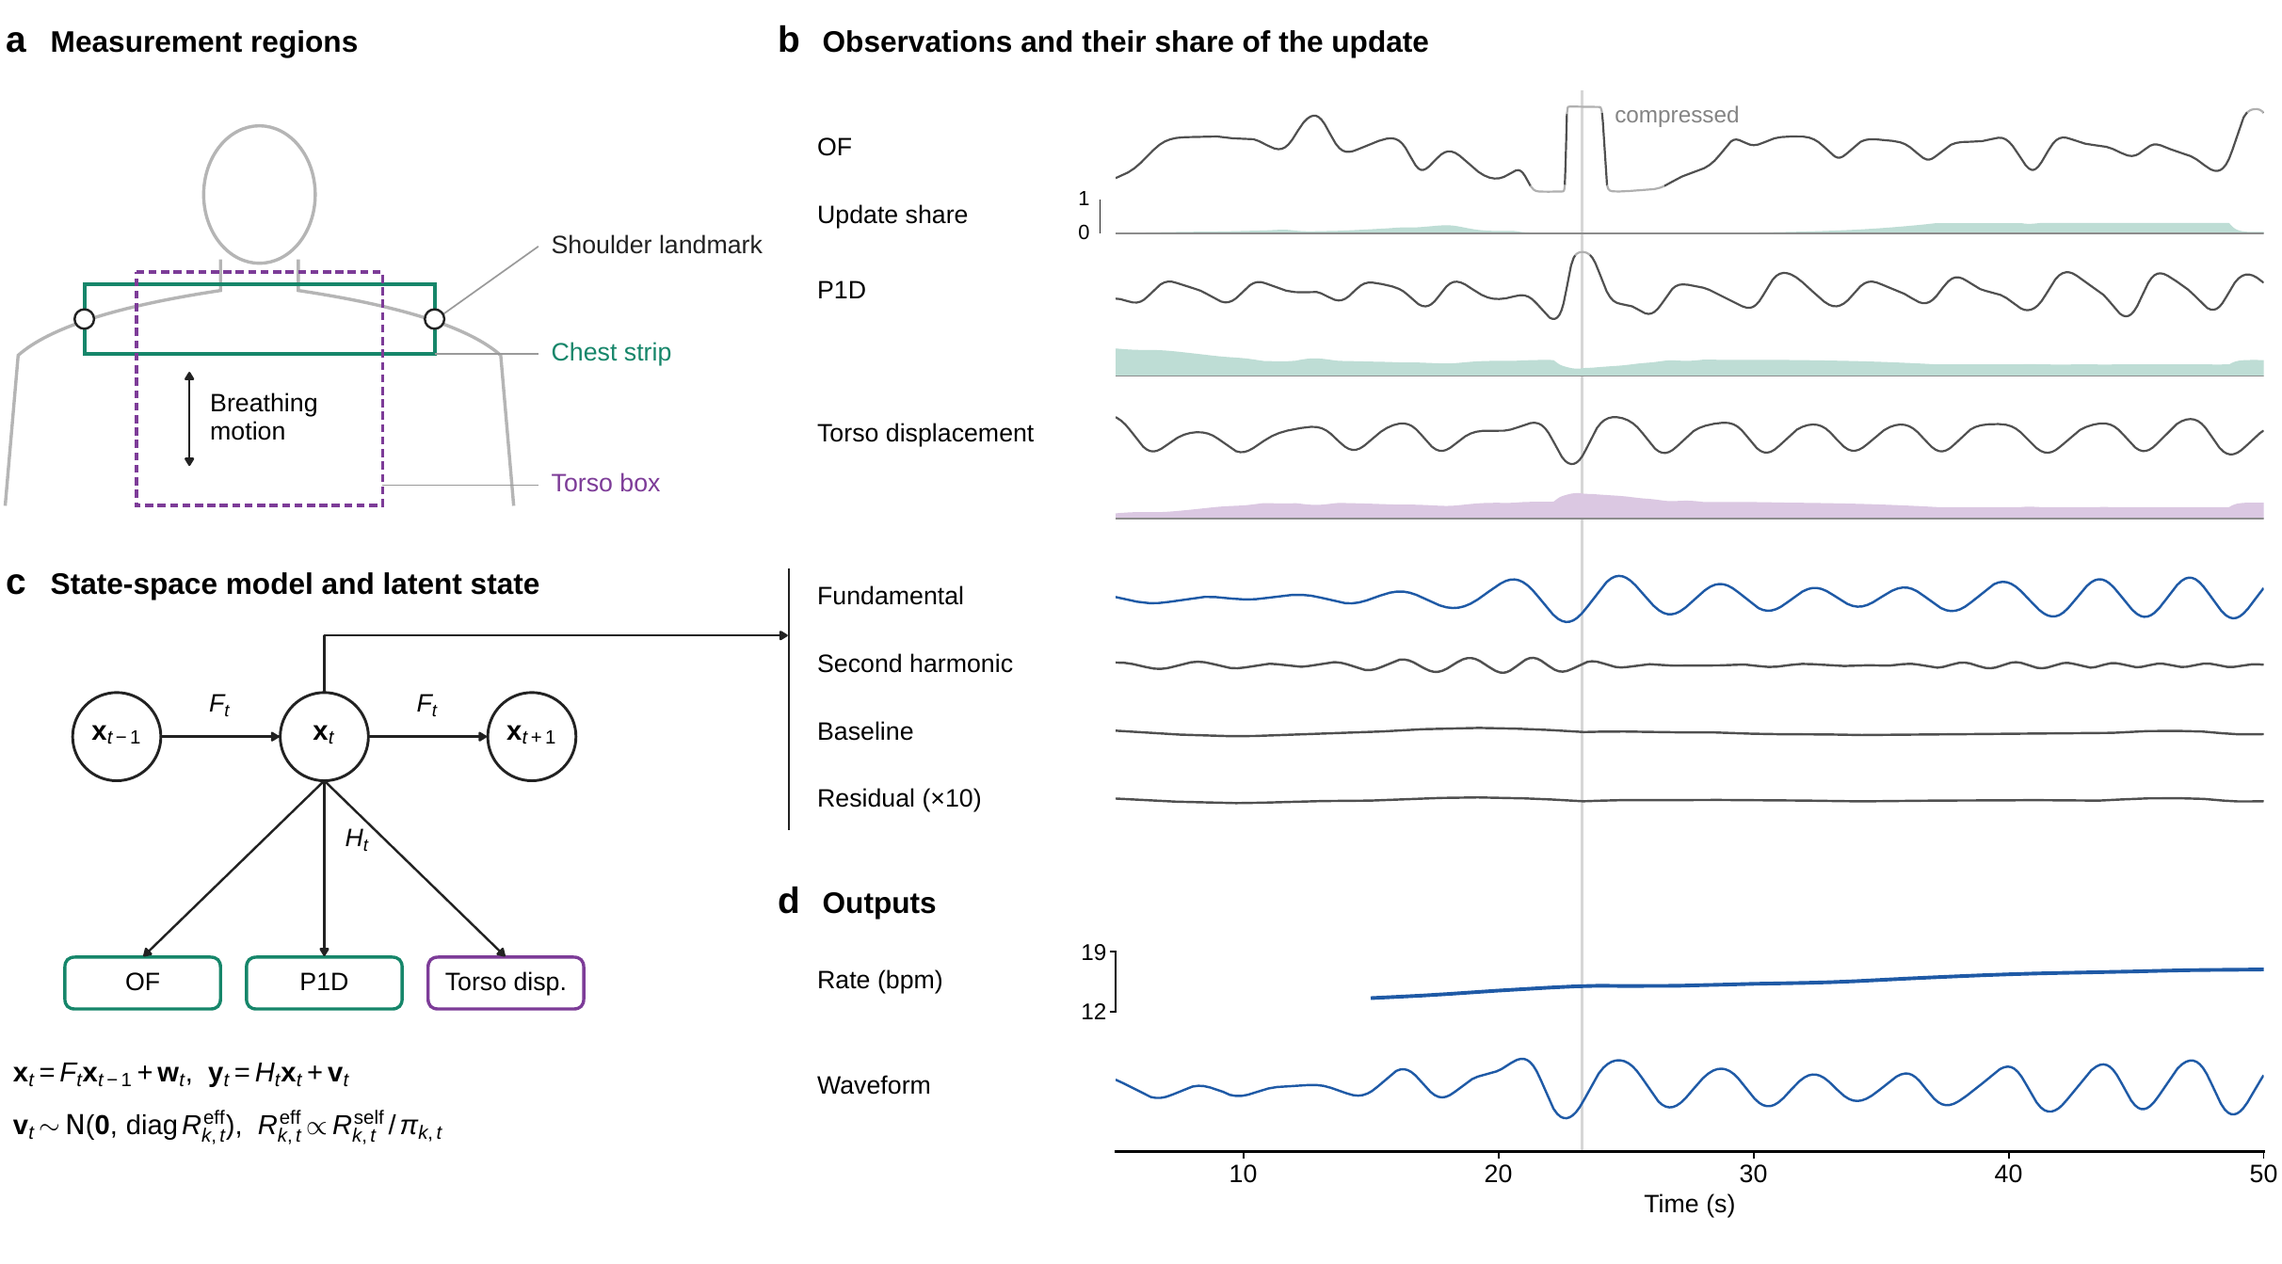
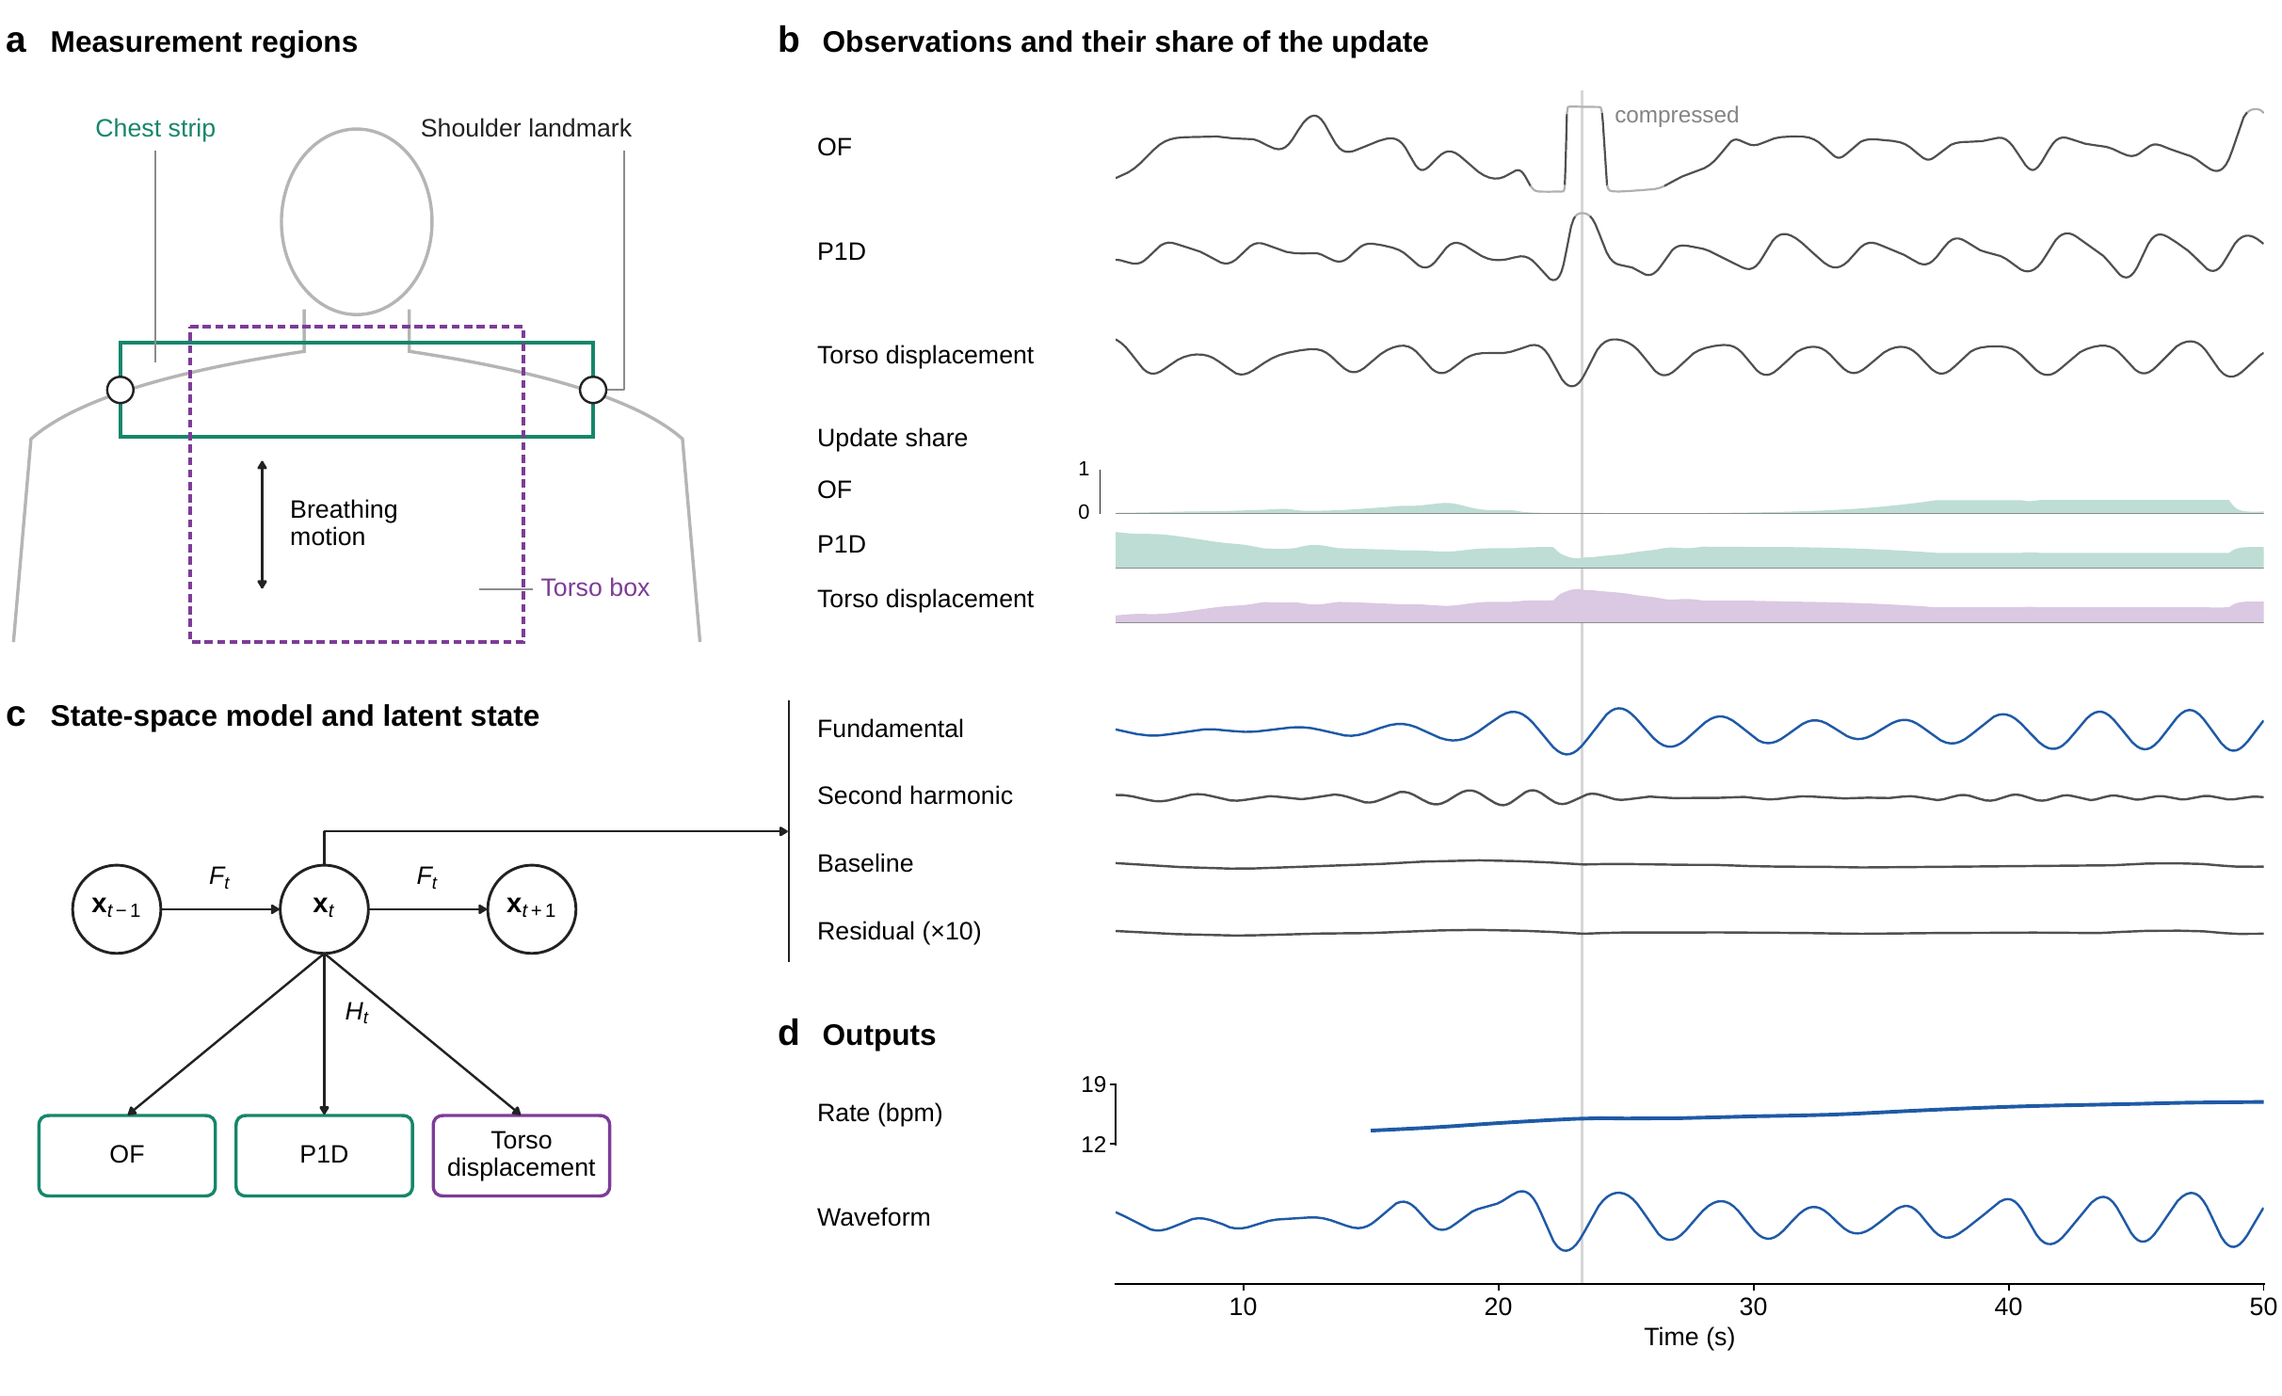
Mirror the final figure scripts and the Figure 1 caption

diff --git a/figures/architecture_figure.py b/figures/architecture_figure.py
@@ -31,7 +31,7 @@ from scipy.signal import butter, sosfiltfilt
 
 matplotlib.use("pdf")
 sys.path.insert(0, os.path.dirname(os.path.abspath(__file__)))
-from figure_style import (CHEST, GUIDE, INK, MM, OBS, PARH, TORSO, draw_share, draw_trace, lighter,  # noqa: E402
+from figure_style import (CHEST, INK, MM, NEUTRAL, OBS, PARH, TORSO, draw_share, draw_trace, lighter,  # noqa: E402
                           median_z)
 
 plt.rcParams.update({"mathtext.fontset": "custom", "mathtext.rm": "Liberation Sans",
@@ -81,9 +81,12 @@ TRANSIENT_S = float(common_time[np.argmax(np.where(in_span, median_abs, -1))])
 # vertical layout of the right column, in mm
 LEFT_X, LABEL_X, PLOT_X0, PLOT_X1 = 60.0, 63.0, 86.0, 174.5
 TEXT_LINE = 3.8
-B_TOP, LANE, TRACE_H, SHARE_H = 8.0, 11.0, 7.0, 2.6
-B_END = B_TOP + len(families) * LANE - (LANE - TRACE_H - 0.4 - SHARE_H)
-C_TOP, C_LANE = B_END + TEXT_LINE, 5.2
+B_TOP, TRACE_LANE, TRACE_H = 8.0, 8.0, 7.0
+SHARE_TITLE_Y = B_TOP + len(families) * TRACE_LANE + 0.4
+SHARE_Y, SHARE_H, SHARE_GAP = SHARE_TITLE_Y + TEXT_LINE, 3.4, 0.8
+B_END = SHARE_Y + len(families) * SHARE_H + (len(families) - 1) * SHARE_GAP
+C_LANE = 5.2
+C_TOP = B_END + 6.0  # the state block starts anew, beside its heading
 C_END = C_TOP + len(COMPONENTS) * C_LANE - 0.6
 D_HEAD = C_END + TEXT_LINE + 2.6
 RATE_Y0, WAVE_Y0, WAVE_Y1 = D_HEAD + 3.0, D_HEAD + 8.4, D_HEAD + 18.4
@@ -126,66 +129,90 @@ def time_to_mm(t):
 # the guide at the transient runs behind every row of the right column
 canvas.plot([time_to_mm(TRANSIENT_S)] * 2, [B_TOP - 1.0, WAVE_Y1], color="#d6d6d6", lw=0.6, zorder=0)
 
-# a: where the observations are measured
+# a: where the observations are measured. The drawing is scaled by SCALE_A from its unit design (line weights and
+# type size unchanged) so that it fills the left column from the heading down to one text line above heading c.
 heading(0.5, 4.0, "a", "Measurement regions")
-cx, top = 20.0, 9.0
-canvas.add_patch(Ellipse((cx, top + 6.0), 8.6, 10.6, fc="none", ec=OUTLINE, lw=0.7))
-body = Path([(cx - 3.0, top + 11.0), (cx - 3.0, top + 13.4), (cx - 15.0, top + 15.2), (cx - 18.6, top + 18.4),
-             (cx - 19.6, top + 30.0), (cx + 19.6, top + 30.0), (cx + 18.6, top + 18.4), (cx + 15.0, top + 15.2),
-             (cx + 3.0, top + 13.4), (cx + 3.0, top + 11.0)],
+SCALE_A = 1.35
+cx, top = 27.5, 9.0
+
+
+def at(dx, dy):
+    """A point of the unit design (mm from the body's centre line and from its top), scaled."""
+    return cx + dx * SCALE_A, top + dy * SCALE_A
+
+
+canvas.add_patch(Ellipse(at(0, 6.0), 8.6 * SCALE_A, 10.6 * SCALE_A, fc="none", ec=OUTLINE, lw=0.7))
+body = Path([at(-3.0, 11.0), at(-3.0, 13.4), at(-15.0, 15.2), at(-18.6, 18.4), at(-19.6, 30.0), at(19.6, 30.0),
+             at(18.6, 18.4), at(15.0, 15.2), at(3.0, 13.4), at(3.0, 11.0)],
             [Path.MOVETO, Path.LINETO, Path.CURVE3, Path.CURVE3, Path.LINETO, Path.MOVETO, Path.LINETO,
              Path.CURVE3, Path.CURVE3, Path.LINETO])
 canvas.add_patch(PathPatch(body, fc="none", ec=OUTLINE, lw=0.7))
-shoulder_y, span = top + 15.6, 27.0
-strip_height = 0.2 * span
-canvas.add_patch(Rectangle((cx - span / 2, shoulder_y - strip_height / 2), span, strip_height, fc="none", ec=CHEST,
-                           lw=0.8))
-canvas.add_patch(Rectangle((cx - 9.5, top + 12.0), 19.0, 18.0, fc="none", ec=TORSO, lw=0.8, ls=(0, (2.2, 1.2))))
-for x in (cx - span / 2, cx + span / 2):
-    canvas.add_patch(Circle((x, shoulder_y), 0.75, fc="white", ec=INK, lw=0.5, zorder=3))
+SPAN_A = 27.0
+strip_x0, strip_y0 = at(-SPAN_A / 2, 15.6 - 0.1 * SPAN_A)
+canvas.add_patch(Rectangle((strip_x0, strip_y0), SPAN_A * SCALE_A, 0.2 * SPAN_A * SCALE_A, fc="none", ec=CHEST, lw=0.8))
+box_x0, box_y0 = at(-9.5, 12.0)
+canvas.add_patch(Rectangle((box_x0, box_y0), 19.0 * SCALE_A, 18.0 * SCALE_A, fc="none", ec=TORSO, lw=0.8,
+                           ls=(0, (2.2, 1.2))))
+for dx in (-SPAN_A / 2, SPAN_A / 2):
+    canvas.add_patch(Circle(at(dx, 15.6), 0.75 * SCALE_A, fc="white", ec=INK, lw=0.5, zorder=3))
 # breathing motion, inside the torso box
-canvas.add_patch(FancyArrowPatch((cx - 5.4, top + 19.6), (cx - 5.4, top + 27.0),
-                                 arrowstyle="<|-|>,head_width=0.8,head_length=1.3", mutation_scale=1, lw=0.5,
-                                 color=INK, shrinkA=0, shrinkB=0))
-canvas.text(cx - 3.8, top + 23.3, "Breathing\nmotion", fontsize=5.5, va="center", linespacing=1.1)
-# direct labels beside the marks, each joined to its mark by a hairline
-LABEL_A = 42.5
-for (x0, y0), (x1, y1), text, colour in [
-        ((cx + span / 2 + 0.7, shoulder_y - 0.4), (LABEL_A - 1.0, shoulder_y - 5.6), "Shoulder landmark", INK),
-        ((cx + span / 2, shoulder_y + strip_height / 2), (LABEL_A - 1.0, shoulder_y + strip_height / 2), "Chest strip", CHEST),
-        ((cx + 9.5, top + 28.4), (LABEL_A - 1.0, top + 28.4), "Torso box", TORSO)]:
-    canvas.plot([x0, x1], [y0, y1], color=GUIDE, lw=0.35)
-    canvas.text(LABEL_A, y1, text, fontsize=5.5, va="center", color=colour)
+canvas.add_patch(FancyArrowPatch(at(-5.4, 19.6), at(-5.4, 27.0), arrowstyle="<|-|>,head_width=0.8,head_length=1.3",
+                                 mutation_scale=1, lw=0.5, color=INK, shrinkA=0, shrinkB=0))
+canvas.text(*at(-3.8, 23.3), "Breathing\nmotion", fontsize=5.5, va="center", linespacing=1.1)
+# direct labels, each joined by a hairline that ends inside its region and is one shade darker than the outline
+LEADER = dict(color=NEUTRAL, lw=0.4, zorder=2)
+landmark_x, landmark_y = at(SPAN_A / 2, 15.6)
+canvas.text(landmark_x + 3.0, top + 1.0, "Shoulder landmark", fontsize=5.5, va="center", ha="right", color=INK)
+# an elbow that stays right of the strip: down beside its right edge, then into the right side of the circle
+elbow_x = landmark_x + 2.4
+canvas.plot([elbow_x, elbow_x, landmark_x + 0.75 * SCALE_A], [top + 2.6, landmark_y, landmark_y], **LEADER)
+strip_leader_x = cx - 15.5
+canvas.text(strip_leader_x, top + 1.0, "Chest strip", fontsize=5.5, va="center", ha="center", color=CHEST)
+# the shoulder outline (a quadratic curve of the body path) at the leader's x; the leader ends midway between the
+# strip's top edge and that outline, touching neither
+t = np.linspace(0, 1, 2001)
+curve_x = (1 - t) ** 2 * -3.0 + 2 * t * (1 - t) * -15.0 + t ** 2 * -18.6
+curve_y = (1 - t) ** 2 * 13.4 + 2 * t * (1 - t) * 15.2 + t ** 2 * 18.4
+outline_y = top + curve_y[np.argmin(np.abs(curve_x * SCALE_A - (strip_leader_x - cx)))] * SCALE_A
+strip_top = top + (15.6 - 0.1 * SPAN_A) * SCALE_A
+canvas.plot([strip_leader_x] * 2, [top + 2.6, (strip_top + outline_y) / 2], **LEADER)
+torso_label_x, torso_label_y = at(14.2 / SCALE_A, 27.0)[0], at(0, 27.0)[1]
+canvas.text(torso_label_x, torso_label_y, "Torso box", fontsize=5.5, va="center", color=TORSO)
+canvas.plot([torso_label_x - 0.6, at(7.0, 0)[0]], [torso_label_y] * 2, **LEADER)
 
-# b: observations over their share of the update
+# b: the three observations, then the share of each in the Kalman update
 heading(LEFT_X, 4.0, "b", "Observations and their share of the update")
 for k, family in enumerate(families):
     label, _, colour = FAMILIES[family]
-    y0 = B_TOP + k * LANE
+    y0 = B_TOP + k * TRACE_LANE
     trace_axes = axes_mm(PLOT_X0, y0, PLOT_X1, y0 + TRACE_H)
     time, z = shown(scaled[family])
     beyond = draw_trace(trace_axes, time, z, OBS, lw=0.45)
     trace_axes.set_ylim(-3.2, 3.2)
     if k == 0 and beyond.any():
-        # the first compressed stretch is named once, in its own tone, beside its end
         # named beside the plateau: right of the end of the compressed stretch that holds the largest value
         peak = int(np.argmax(np.where(beyond, np.abs(z), -1)))
         end = peak + int(np.argmin(beyond[peak:]))
         trace_axes.text(time[end] + 0.5, 3.0, "compressed", fontsize=5, color=lighter(OBS, 0.3), va="top")
-    share_y = y0 + TRACE_H + 0.4
-    share_axes = axes_mm(PLOT_X0, share_y, PLOT_X1, share_y + SHARE_H)
+    row_label(y0 + TRACE_H / 2, label)
+row_label(SHARE_TITLE_Y + TEXT_LINE / 2 - 0.4, "Update share")
+for k, family in enumerate(families):
+    label, _, colour = FAMILIES[family]
+    y0 = SHARE_Y + k * (SHARE_H + SHARE_GAP)
+    share_axes = axes_mm(PLOT_X0, y0, PLOT_X1, y0 + SHARE_H)
     share_time, share = shown(update_share[k])
     draw_share(share_axes, share_time, share, colour)
-    row_label(y0 + TRACE_H / 2, label)
+    row_label(y0 + SHARE_H / 2, label)
     if k == 0:
-        row_label(share_y + SHARE_H / 2, "Update share")
-        canvas.plot([PLOT_X0 - 1.2] * 2, [share_y, share_y + SHARE_H], color=INK, lw=0.4)
-        for value, y in ((1, share_y), (0, share_y + SHARE_H)):
+        canvas.plot([PLOT_X0 - 1.2] * 2, [y0, y0 + SHARE_H], color=INK, lw=0.4)
+        for value, y in ((1, y0), (0, y0 + SHARE_H)):
             canvas.text(PLOT_X0 - 2.0, y, str(value), fontsize=4.5, ha="right", va="center")
 
-# c: the state-space model (left) and its smoothed state components (right)
+# c: the state-space model (left) and its smoothed state components (right). The node x_t sits below the middle of
+# the bracket that spans the state components, so that its connector runs up to the middle of the bracket.
 heading(0.5, C_TOP + 2.0, "c", "State-space model and latent state")
-state_y = C_TOP + 13.0
+bracket_x, connector_y = LEFT_X + 0.8, (C_TOP + C_END) / 2
+state_y = connector_y + 3.4 + 2.6
 observation_y = state_y + 19.0
 for x, name in [(9.0, "$\\mathbf{x}_{t-1}$"), (25.0, "$\\mathbf{x}_t$"), (41.0, "$\\mathbf{x}_{t+1}$")]:
     canvas.add_patch(Circle((x, state_y), 3.4, fc="white", ec=INK, lw=0.6))
@@ -193,18 +220,16 @@ for x, name in [(9.0, "$\\mathbf{x}_{t-1}$"), (25.0, "$\\mathbf{x}_t$"), (41.0, 
 for x0 in (9.0, 25.0):
     arrow((x0 + 3.4, state_y), (x0 + 12.6, state_y))
     canvas.text(x0 + 8.0, state_y - 1.6, "$F_t$", fontsize=5.5, ha="center", va="baseline")
+BOX_W, BOX_H = 13.6, 6.2
 for k, family in enumerate(families):
     _, label, colour = FAMILIES[family]
-    x = 25.0 + (k - (len(families) - 1) / 2) * 14.0
-    canvas.add_patch(FancyBboxPatch((x - 6.0, observation_y - 2.0), 12.0, 4.0,
+    x = 25.0 + (k - (len(families) - 1) / 2) * 15.2
+    canvas.add_patch(FancyBboxPatch((x - BOX_W / 2, observation_y - BOX_H / 2), BOX_W, BOX_H,
                                     boxstyle="round,pad=0,rounding_size=0.8", fc="white", ec=colour, lw=0.7))
-    canvas.text(x, observation_y, label, fontsize=5.5, ha="center", va="center")
-    arrow((25.0, state_y + 3.4), (x, observation_y - 2.0))
+    canvas.text(x, observation_y, label.replace("Torso disp.", "Torso\ndisplacement"), fontsize=5.5, ha="center",
+                va="center", linespacing=1.1)
+    arrow((25.0, state_y + 3.4), (x, observation_y - BOX_H / 2))
 canvas.text(26.6, state_y + 8.2, "$H_t$", fontsize=5.5, va="center")
-canvas.text(1.0, observation_y + 7.4, "$\\mathbf{x}_t = F_t\\mathbf{x}_{t-1} + \\mathbf{w}_t$,  "
-            "$\\mathbf{y}_t = H_t\\mathbf{x}_t + \\mathbf{v}_t$", fontsize=6, va="center")
-canvas.text(1.0, observation_y + 11.4, "$\\mathbf{v}_t \\sim \\mathcal{N}(\\mathbf{0},\\,\\mathrm{diag}\\,R^{\\mathrm{eff}}_{k,t})$,  "
-            "$R^{\\mathrm{eff}}_{k,t} \\propto R^{\\mathrm{self}}_{k,t}\\,/\\,\\pi_{k,t}$", fontsize=6, va="center")
 decomposition = estimate["decomposition"]
 fundamental_scale = 1.4826 * np.median(np.abs(np.asarray(decomposition["h1"], float)))
 for k, (key, label, gain) in enumerate(COMPONENTS):
@@ -214,10 +239,8 @@ for k, (key, label, gain) in enumerate(COMPONENTS):
     ax.plot(time, values, color=PARH if key == "h1" else OBS, lw=0.5)
     ax.set_ylim(-2.2, 2.2)
     row_label(y0 + (C_LANE - 0.6) / 2, label)
-# one connector from the node x_t to the stack of state components, which a bracket spans
-bracket_x = LEFT_X + 0.8
+# one connector from the node x_t to the middle of the bracket that spans the state components
 canvas.plot([bracket_x] * 2, [C_TOP, C_END], color=INK, lw=0.5)
-connector_y = C_TOP + 5.2
 canvas.plot([25.0, 25.0], [state_y - 3.4, connector_y], color=INK, lw=0.5)
 arrow((25.0, connector_y), (bracket_x, connector_y))
 

diff --git a/figures/case_figure.py b/figures/case_figure.py
@@ -95,7 +95,7 @@ TEXT_LINE = 3.8
 ROW1_Y, ROW1_LANE = 8.0, 7.5
 ROW2_Y, SHARE_H, SHARE_GAP = ROW1_Y + 4 * ROW1_LANE + TEXT_LINE, 3.4, 0.8
 ROW3_Y, ROW3_H = ROW2_Y + 3 * SHARE_H + 2 * SHARE_GAP + TEXT_LINE, 16.0
-ROW4_Y, ROW4_H = ROW3_Y + ROW3_H + TEXT_LINE + 3.2, 26.0
+ROW4_Y, ROW4_H = ROW3_Y + ROW3_H + 6.8 + TEXT_LINE, 26.0  # tick labels and "Time (s)", then one text line
 HEIGHT = ROW4_Y + ROW4_H + 8.5
 LANE_UNITS, GAIN = 1.6, 0.26
 
@@ -234,12 +234,18 @@ for column, case in enumerate(cases):
     waveform.spines["bottom"].set_visible(True)
     waveform.set_xticks(np.arange(np.ceil(span[0] / 10) * 10, span[1] + 1e-6, 10))
     waveform.tick_params(length=1.5, pad=1, labelsize=5)
-    ends = []
-    for label_text, time, z, colour in (("Belt", belt_time[shown], z_belt, INK),
-                                        ("PARH-OSSM", video_time[:z_smoothed.size], z_smoothed, PARH)):
-        k = np.flatnonzero(time <= span[1])[-1]
-        ends.append((waveform, span[1], float(np.clip(3 * np.tanh(z[k] / 3), -3.3, 3.3)), label_text, colour))
-    end_labels(ends, x_mm=x1 + 0.9)
+    waveform.set_xlabel("Time (s)", fontsize=5.5, labelpad=1)
+    if column == 0:
+        # a's traces run to the gutter, so its two names sit above the right end of the axis
+        canvas.text(x1, ROW3_Y - 0.5, "PARH-OSSM", fontsize=5, color=PARH, ha="right", va="bottom")
+        canvas.text(x1 - 11.0, ROW3_Y - 0.5, "Belt", fontsize=5, color=INK, ha="right", va="bottom")
+    else:
+        ends = []
+        for label_text, time, z, colour in (("Belt", belt_time[shown], z_belt, INK),
+                                            ("PARH-OSSM", video_time[:z_smoothed.size], z_smoothed, PARH)):
+            k = np.flatnonzero(time <= span[1])[-1]
+            ends.append((waveform, span[1], float(np.clip(3 * np.tanh(z[k] / 3), -3.3, 3.3)), label_text, colour))
+        end_labels(ends, x_mm=x1 + 0.9)
 
     # row 4: the window rates over the whole trial
     rate = axes_mm(x0, ROW4_Y, x1, ROW4_Y + ROW4_H, trial_span)
@@ -248,6 +254,8 @@ for column, case in enumerate(cases):
     centre = case["windows"].window + WIN / 2
     if column == 1:
         rate.axvspan(*span, color="#e9e9e9", lw=0, zorder=0)
+        canvas.text(to_mm(rate, span[0], 0)[0] + 0.3, ROW4_Y - 0.5, "Window shown above", fontsize=4.8,
+                    color="#6f6f6f", va="bottom")
     rate.plot([centre.min(), centre.max()], [case["constant"]] * 2, color=NEUTRAL, lw=0.8, ls=(0, (1, 1.5)), zorder=1)
     for key, colour in (("hilbert_reference_bpm", INK), ("parh_track_bpm", PARH), ("ossm_kf_track_bpm", OSSM)):
         rate.plot(centre, case["windows"][key], color=colour, lw=1.0, zorder=2)

diff --git a/README.md b/README.md
@@ -19,10 +19,10 @@ oscillation it appears to carry.
 <br>
 <p align="center"><img src="figures/F1_architecture.png" width="100%"></p>
 <p align="center"><sub><b>Figure 1.</b> PARH-OSSM. (a) The chest strip, placed from the shoulder landmarks of the
-first frame, and the torso box below the face. (b) The three observations of one trial, each above its share of the
-Kalman update; where a transient breaks the chest observations, the update moves to torso displacement. (c) The
-smoothed state: the breathing oscillation, its second harmonic, a slow baseline, and an aperiodic residual. (d) The
-rate track and the smoothed waveform.</sub></p>
+first frame, and the torso box below the face. (b) The three observations of one trial and, below them, the share of
+each in the Kalman update; where a transient breaks the chest observations (grey line), the update moves to torso
+displacement. (c) The state-space model and its smoothed state: the breathing oscillation, its second harmonic, a
+slow baseline, and an aperiodic residual. (d) The rate track and the smoothed waveform.</sub></p>
 <br>
 
 1. **Observations.** Optical flow (OF) measures the vertical velocity of the texture in a chest strip placed from
